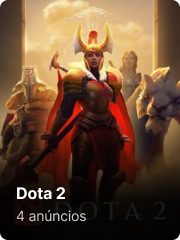
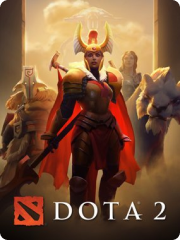
ajustando game images

diff --git a/src/App.tsx b/src/App.tsx
@@ -11,23 +11,53 @@ function App() {
       </h1>
 
       <div className="grid grid-cols-6 gap-6 mt-16">
-        <a href="">
+        <a href="" className="relative rounded-lg overflow-hidden">
           <img src="/game 1.png" alt="" />
+
+          <div className="w-full pt-16 pb-4 bg-game-gradient absolute bottom-0 left-0 right-0">
+            <strong className="font-bold text-white block">League of Legends</strong>
+            <span className="text-zinc-300 text-sm block">4 anúncios</span>
+          </div>
         </a>
-        <a href="">
+        <a href="" className="relative rounded-lg overflow-hidden">
           <img src="/game 2.png" alt="" />
+
+          <div className="w-full pt-16 pb-4 bg-game-gradient absolute bottom-0 left-0 right-0">
+            <strong className="font-bold text-white block">Dota 2</strong>
+            <span className="text-zinc-300 text-sm block">4 anúncios</span>
+          </div>
         </a>
-        <a href="">
+        <a href="" className="relative rounded-lg overflow-hidden">
           <img src="/game 3.png" alt="" />
+
+          <div className="w-full pt-16 pb-4 bg-game-gradient absolute bottom-0 left-0 right-0">
+            <strong className="font-bold text-white block">Counter Strike</strong>
+            <span className="text-zinc-300 text-sm block">4 anúncios</span>
+          </div>
         </a>
-        <a href="">
+        <a href="" className="relative rounded-lg overflow-hidden">
           <img src="/game 4.png" alt="" />
+
+          <div className="w-full pt-16 pb-4 bg-game-gradient absolute bottom-0 left-0 right-0">
+            <strong className="font-bold text-white block">Apex Legends</strong>
+            <span className="text-zinc-300 text-sm block">4 anúncios</span>
+          </div>
         </a>
-        <a href="">
+        <a href="" className="relative rounded-lg overflow-hidden">
           <img src="/game 5.png" alt="" />
+
+          <div className="w-full pt-16 pb-4 bg-game-gradient absolute bottom-0 left-0 right-0">
+            <strong className="font-bold text-white block">Fortnite</strong>
+            <span className="text-zinc-300 text-sm block">4 anúncios</span>
+          </div>
         </a>
-        <a href="">
+        <a href="" className="relative rounded-lg overflow-hidden">
           <img src="/game 6.png" alt="" />
+
+          <div className="w-full pt-16 pb-4 bg-game-gradient absolute bottom-0 left-0 right-0">
+            <strong className="font-bold text-white block">World of Warcraft</strong>
+            <span className="text-zinc-300 text-sm block">4 anúncios</span>
+          </div>
         </a>
       </div>
     </div>
